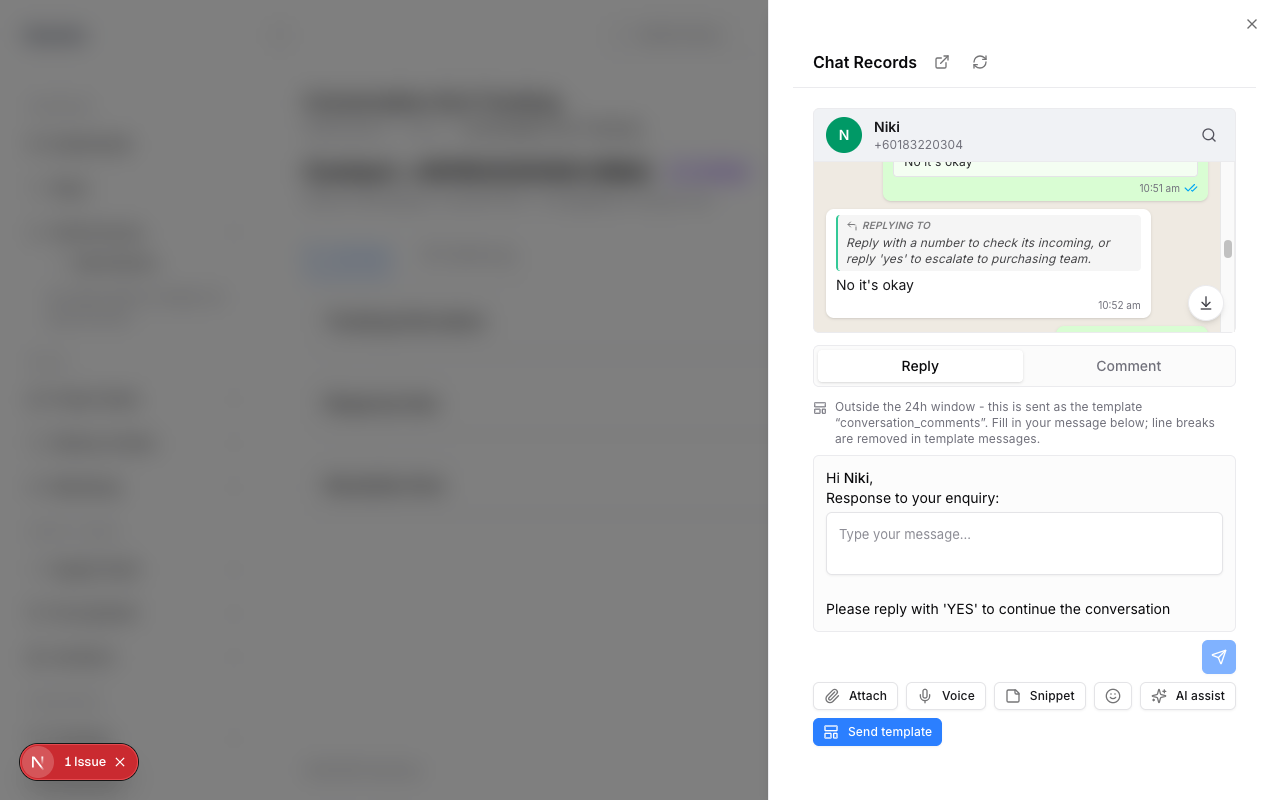
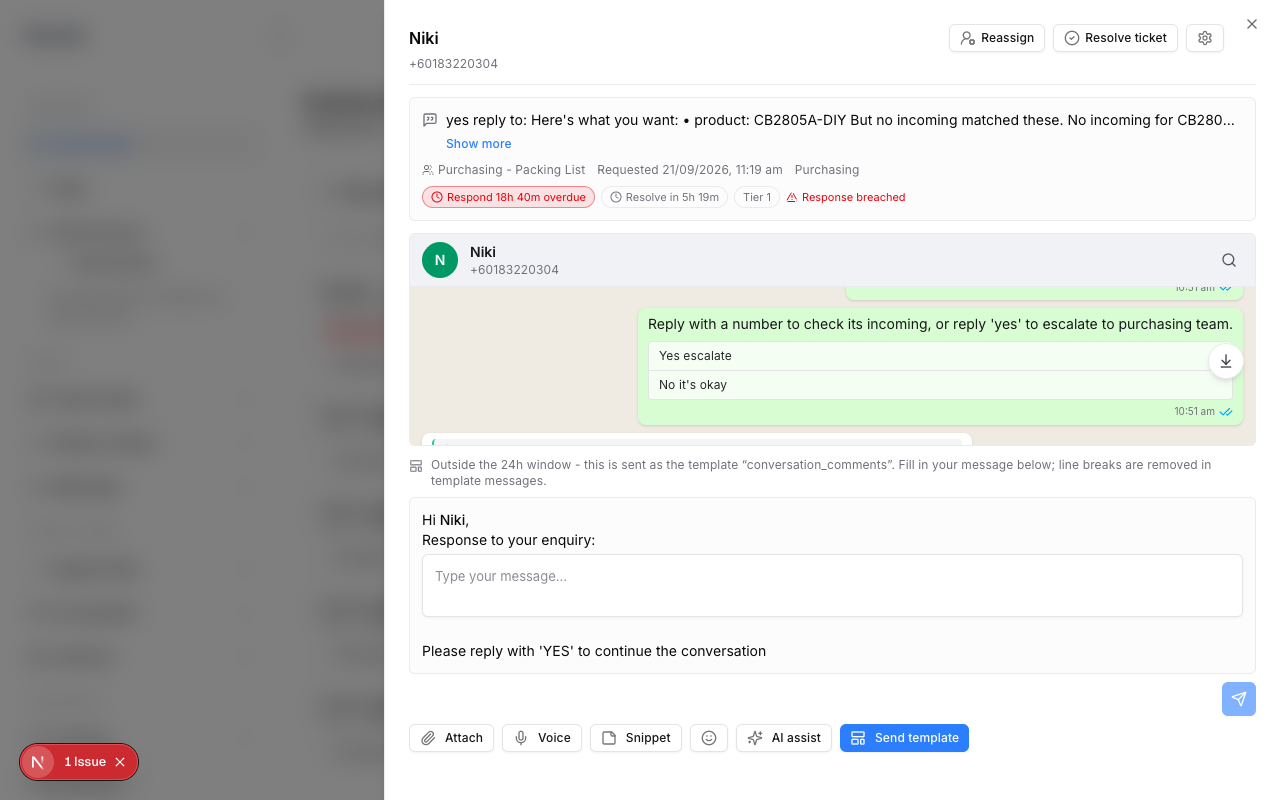
fix(sla): fix round 4 - sheet content stops double-scrolling, composer never shrinks (375px overlap defect)
AC-CP-B3 PASSED on 803f910e3 (evidence PNG re-committed here). New defect from
the SAME run at 375x812, ticket ac2e3912, reproduced twice: the message
thread's text rendered on top of the composer's "Outside the 24h window..."
text, at the same y. DOM probe: the thread's own scroll box (min-h-40 floor)
measured scrollHeight 12793 / clientHeight 158 - correctly clipped and
scrolling its own content, not the defect itself.

Diagnosed against origin/main first: SheetContent's explicit overflow-y-auto
and SheetBody's own (from sheet.tsx's base class) are BOTH unchanged since
main - the double-scroll-container structure is pre-existing, not introduced
by this lane. Neither the one-line quote (frees space) nor this lane's R2/R3
flex-fill wiring explains the overlap alone, and the composer/mode-switch bar
have never carried a shrink floor, on main or here.

Fixed at the smallest seam, in files this lane already owns:
- InterventionTicketDrawer.tsx and ConversationSLATrackingDetail.tsx's Chat
  Records Sheet: SheetContent's className overflow-y-auto -> overflow-hidden.
  SheetBody is the ONE intended scroll container (its own docstring says so);
  SheetContent sits at a fixed h-full and never needs its own scroll - leaving
  it independently scrollable gave the layout two competing scroll contexts
  around the same flex-fill thread.
- TicketConversationPanel.tsx (shared by both surfaces): the Reply/Comment
  mode-switch bar gets shrink-0 directly; InternalCommentComposer and
[…]

diff --git a/sorento_crm_frontend/app/(protected)/sla-management/conversation-sla-tracking/components/TicketConversationPanel.tsx b/sorento_crm_frontend/app/(protected)/sla-management/conversation-sla-tracking/components/TicketConversationPanel.tsx
@@ -267,12 +267,16 @@ export default function TicketConversationPanel({
         </>
       )}
 
-      {/* ---- Mode switch: message the contact, or note to the team ---- */}
+      {/* ---- Mode switch: message the contact, or note to the team ----
+          `shrink-0` (fix round 4): a flex COLUMN child can still be
+          squeezed by the flex algorithm when the thread above it is
+          fighting for space at its `min-h-40` floor - this bar (and the
+          composer below) must never lose height to that fight. */}
       {ticket && (
         <div
           role="tablist"
           aria-label="Composer mode"
-          className="flex w-full gap-1 rounded-md border bg-muted/40 p-1"
+          className="flex w-full shrink-0 gap-1 rounded-md border bg-muted/40 p-1"
         >
           {(['reply', 'comment'] as const).map((mode) => (
             <button
@@ -297,62 +301,70 @@ export default function TicketConversationPanel({
         </div>
       )}
 
+      {/* `shrink-0` wrapper (fix round 4): neither composer variant accepts a
+          className of its own, and a bare flex-column child can still be
+          squeezed by the algorithm - this must always render at its full
+          natural height, never fight the thread above it for space. */}
       {ticket && composerMode === 'comment' && (
-        <InternalCommentComposer
-          disabled={isResolved}
-          disabledMessage="This ticket is resolved."
-          onSubmit={({ body, mentionedUserIds }) =>
-            commentMutation.mutateAsync({
-              body,
-              mentioned_user_ids: mentionedUserIds,
-            })
-          }
-        />
+        <div className="shrink-0">
+          <InternalCommentComposer
+            disabled={isResolved}
+            disabledMessage="This ticket is resolved."
+            onSubmit={({ body, mentionedUserIds }) =>
+              commentMutation.mutateAsync({
+                body,
+                mentioned_user_ids: mentionedUserIds,
+              })
+            }
+          />
+        </div>
       )}
 
       {/* Held back while the ticket is still loading: its window state and send
           capabilities decide what the composer even offers, and a flash of
           "replying is not available" is a lie the next render corrects. */}
       {composerMode === 'reply' && !ticketQuery.isLoading && (
-        <SharedConversationComposer
-          entityType="conversation_sla"
-          entityId={ticket?.id ?? ticketId ?? ''}
-          canReply={canReply}
-          mode="conversation"
-          attachmentsEnabled={!!ticket?.send_capabilities.includes('attachment')}
-          // A manual template send is a reply too: stamp THIS ticket, or the
-          // response clock runs on while the contact has an answer.
-          templateSendTrackingId={ticket?.id ?? null}
-          // Composer parity with Respond's own inbox (UAC AC-L4 / AC-L5).
-          // Snippet variables resolve against THIS ticket, and the AI draft is
-          // grounded on THIS thread - both server-side, so the panel only has
-          // to say which ticket it is.
-          snippetsEnabled={!!ticket}
-          snippetTrackingId={ticket?.id ?? null}
-          emojiEnabled={!!ticket}
-          onAiAssist={
-            ticket
-              ? async ({ instruction }) => {
-                  const result = await aiDraftMutation.mutateAsync({ instruction });
-                  return result.draft;
-                }
-              : undefined
-          }
-          onSent={handleSent}
-          // Optimistic send (M6-01): the bubble goes up before the request
-          // completes and comes down once `handleSent`'s thread refetch lands.
-          pendingBubble={{ add: thread.addPending, remove: thread.removePending }}
-          windowStateOverride={
-            ticket ? { closed: !ticket.window.open, template: ticket.chat_template } : null
-          }
-          sendAdapter={
-            ticket
-              ? (payload) =>
-                  sendMutation.mutateAsync({ text: payload.text, attachments: payload.files })
-              : undefined
-          }
-          notAvailableMessage={notAvailableMessage}
-        />
+        <div className="shrink-0">
+          <SharedConversationComposer
+            entityType="conversation_sla"
+            entityId={ticket?.id ?? ticketId ?? ''}
+            canReply={canReply}
+            mode="conversation"
+            attachmentsEnabled={!!ticket?.send_capabilities.includes('attachment')}
+            // A manual template send is a reply too: stamp THIS ticket, or the
+            // response clock runs on while the contact has an answer.
+            templateSendTrackingId={ticket?.id ?? null}
+            // Composer parity with Respond's own inbox (UAC AC-L4 / AC-L5).
+            // Snippet variables resolve against THIS ticket, and the AI draft is
+            // grounded on THIS thread - both server-side, so the panel only has
+            // to say which ticket it is.
+            snippetsEnabled={!!ticket}
+            snippetTrackingId={ticket?.id ?? null}
+            emojiEnabled={!!ticket}
+            onAiAssist={
+              ticket
+                ? async ({ instruction }) => {
+                    const result = await aiDraftMutation.mutateAsync({ instruction });
+                    return result.draft;
+                  }
+                : undefined
+            }
+            onSent={handleSent}
+            // Optimistic send (M6-01): the bubble goes up before the request
+            // completes and comes down once `handleSent`'s thread refetch lands.
+            pendingBubble={{ add: thread.addPending, remove: thread.removePending }}
+            windowStateOverride={
+              ticket ? { closed: !ticket.window.open, template: ticket.chat_template } : null
+            }
+            sendAdapter={
+              ticket
+                ? (payload) =>
+                    sendMutation.mutateAsync({ text: payload.text, attachments: payload.files })
+                : undefined
+            }
+            notAvailableMessage={notAvailableMessage}
+          />
+        </div>
       )}
     </div>
   );

diff --git a/sorento_crm_frontend/app/(protected)/sla-management/conversation-sla-tracking/components/InterventionTicketDrawer.test.tsx b/sorento_crm_frontend/app/(protected)/sla-management/conversation-sla-tracking/components/InterventionTicketDrawer.test.tsx
@@ -1215,3 +1215,43 @@ describe('InterventionTicketDrawer My Team (not the assignee)', () => {
     expect(screen.queryByTestId('ticket-takeover')).not.toBeInTheDocument();
   });
 });
+
+/**
+ * Fix round 4: at 375x812, a real ticket (long thread + the composer's
+ * "Outside the 24h window..." template notice) rendered the thread's text on
+ * TOP of the composer's, at the same y - a real defect, reproduced twice.
+ * DOM probe found the thread's own scroll box correctly clipped to its
+ * `min-h-40` floor (clientHeight 158, scrollHeight 12793) - so the box ITSELF
+ * was fine; the structural risk is `SheetContent` ALSO being independently
+ * scrollable (its own `overflow-y-auto`, on top of `SheetBody`'s) and the
+ * composer having no `shrink-0` floor of its own, so a squeeze anywhere in
+ * that chain has nowhere safe to land. jsdom cannot measure real layout, so
+ * these pin the STRUCTURE the fix relies on, not the pixels.
+ */
+describe('InterventionTicketDrawer sheet layout (fix round 4, 375px overlap)', () => {
+  it('the sheet content itself does not scroll - only SheetBody does, so there is exactly one scroll container between it and the thread', async () => {
+    useInterventionTicket.mockReturnValue(mockQuery(makeTicket()));
+    renderDrawer();
+    await screen.findByTestId('chat-list');
+
+    const sheetContent = document.querySelector('[data-slot="sheet-content"]');
+    expect(sheetContent).toBeTruthy();
+    expect(sheetContent?.className).not.toContain('overflow-y-auto');
+  });
+
+  it('the composer never shrinks below its natural height, however tight the thread gets', async () => {
+    useInterventionTicket.mockReturnValue(mockQuery(makeTicket()));
+    renderDrawer();
+
+    const send = await screen.findByTestId('composer-send');
+    expect(send.closest('.shrink-0')).toBeTruthy();
+  });
+
+  it('the Reply/Comment mode switch never shrinks either', async () => {
+    useInterventionTicket.mockReturnValue(mockQuery(makeTicket()));
+    renderDrawer();
+
+    const tab = await screen.findByTestId('composer-mode-reply');
+    expect(tab.closest('[role="tablist"]')?.className).toContain('shrink-0');
+  });
+});

diff --git a/sorento_crm_frontend/app/(protected)/sla-management/conversation-sla-tracking/components/InterventionTicketDrawer.tsx b/sorento_crm_frontend/app/(protected)/sla-management/conversation-sla-tracking/components/InterventionTicketDrawer.tsx
@@ -222,7 +222,13 @@ export default function InterventionTicketDrawer({
     <Sheet open={open} onOpenChange={onOpenChange}>
       <SheetContent
         side="right"
-        className="flex w-full flex-col gap-3 overflow-y-auto p-4 sm:max-w-2xl sm:p-6 lg:max-w-4xl"
+        // Fix round 4: `overflow-hidden`, not `-y-auto` (the base primitive's
+        // default) - `SheetBody` below is the ONE scroll container (it has
+        // its own `overflow-y-auto`, on purpose). Two independently
+        // scrollable ancestors around the same flex-fill thread fought each
+        // other at 375x812 and the thread's text rendered on top of the
+        // composer's (AC-CP-B1 375 overlap defect).
+        className="flex w-full flex-col gap-3 overflow-hidden p-4 sm:max-w-2xl sm:p-6 lg:max-w-4xl"
       >
         <SheetHeader className="border-b pb-3 pe-8">
           <div className="flex flex-wrap items-center gap-2">

diff --git a/sorento_crm_frontend/app/(protected)/sla-management/conversation-sla-tracking/components/ConversationSLATrackingDetail.tsx b/sorento_crm_frontend/app/(protected)/sla-management/conversation-sla-tracking/components/ConversationSLATrackingDetail.tsx
@@ -1066,7 +1066,12 @@ export default function ConversationSLATrackingDetail({
 
       {respondInboxUrl && (
         <Sheet open={conversationSheetOpen} onOpenChange={setConversationSheetOpen}>
-          <SheetContent side="right" className="flex w-full flex-col overflow-y-auto sm:max-w-lg">
+          {/* Fix round 4: `overflow-hidden`, not `-y-auto` - `SheetBody`
+              below is the ONE scroll container. Same shape as the ticket
+              drawer's Sheet (InterventionTicketDrawer.tsx), same fix -
+              see its comment for why two scrollable ancestors around a
+              flex-fill thread is the defect. */}
+          <SheetContent side="right" className="flex w-full flex-col overflow-hidden sm:max-w-lg">
             <SheetHeader className="sr-only">
               <SheetTitle>Chat Records</SheetTitle>
             </SheetHeader>

diff --git a/documentation/plans/sla/PLAN-chat-panel-layout-22sep.md b/documentation/plans/sla/PLAN-chat-panel-layout-22sep.md
@@ -1,6 +1,6 @@
 # PLAN: ticket chat panel - one-line enquiry quote, thread fills the sheet, reply-to jump fetches back
 
-Status: review READY, fix round 3 (replyTo.id) pushed, browser B3 re-verify owed (lane `fix/sla-chat-panel-layout`, worktree `sorento_crm-chat-panel-layout`)
+Status: review READY, browser B3 PASS, 375 overlap fix pushed, re-verify owed (lane `fix/sla-chat-panel-layout`, worktree `sorento_crm-chat-panel-layout`)
 UAC: `chat-panel-layout-22sep-acceptance-criteria.md`
 Owner rulings (22 Sep 2026): R2 enquiry quote is one line, chat window takes the most space; R3 Chat Records popup thread flex-fills; R4 reply-to jump reuses the search-jump fetch.
 
@@ -29,6 +29,18 @@ Staff opens a ticket (worklist drawer or SLA detail "Chat Records"). Today a lon
 ## Fix round 3 (browser pass FAIL on AC-CP-B3, real defect)
 
 `lib/respondIoChatRender.ts:53-57` typed `replyTo.messageId` and `describeQuotedContext` (`:331`) read `reply.messageId` - but the LIVE Respond.io relay's `replyTo` carries the quoted message's id as `id`, never `messageId` (verified in the browser: `"replyTo": {"id": 1788922281019104, "message": {...}, "mId": "...", "sender": {...}}`, no `messageId` key at all). Every quote in production rendered as an inert div, including one whose target was in the loaded window. Every test fixture used `messageId`, which is why the suite stayed green. Fixed by reading `reply.id ?? reply.messageId` (the `??` keeps the local `chat_histories` mirror's reconstructed shape working - `conversation_thread_service.py`'s `_row_to_item` still writes `messageId`). Confirmed `conversation_thread_service.py`'s `_respond_item()` passes Respond's raw `replyTo` through untouched for the live "respond" lane - no backend rename, the fix is frontend-only. Note: `persist_messages` in the same backend file (line ~560) reads `reply_to.get("messageId")` too, for the LOCAL search-cache write path - same wrong key, a separate function, flagged but out of this round's scope.
+
+## Fix round 4 (AC-CP-B3 PASS; new 375px overlap defect on the SAME run)
+
+At 375x812, ticket ac2e3912 (Niki) opened via `/?ticket=<id>`, reproduced twice on a fresh load: the message thread's text rendered on top of the composer's "Outside the 24h window - this is sent as the template..." text, at the same y. DOM probe: one `.overflow-y-auto` measured `scrollHeight 12793`, `clientHeight 158` - the thread's own scroll box (`min-h-40` floor, `RespondChatList.tsx:875`) is correctly clipping and scrolling its OWN content; that box is not the defect.
+
+Diagnosed against `origin/main` first: `SheetContent`'s className (`overflow-y-auto`, explicit at the call site) and `SheetBody`'s (also `overflow-y-auto`, from `sheet.tsx`'s own base class) are BOTH unchanged since main - the double-scroll-container structure (reviewer's S3 candidate) is pre-existing, not introduced by this lane. What IS new in this lane is the enquiry quote now being one line (freeing space) and the flex-fill wiring this PLAN's own R2/R3 fixes rely on - neither explains the overlap on its own, and the composer/tablist have never carried `shrink-0`, on main or here.
+
+Fixed at the smallest seam, in the two files this lane already owns:
+1. `InterventionTicketDrawer.tsx` and `ConversationSLATrackingDetail.tsx`'s Chat Records `Sheet`: `SheetContent`'s className changed from `overflow-y-auto` to `overflow-hidden` - `SheetBody` is the ONE intended scroll container (its own docstring says so), and `SheetContent` sits at a fixed `h-full`, so it never needs to scroll on its own; letting it stay independently scrollable gave the layout two competing scroll contexts around the same flex-fill thread.
+2. `TicketConversationPanel.tsx` (shared by both surfaces): the Reply/Comment mode-switch bar gets `shrink-0` directly; `InternalCommentComposer` and `SharedConversationComposer` (neither accepts a `className`) are each wrapped in a `<div className="shrink-0">` - neither carried a shrink floor before, on main or here, so a squeeze anywhere upstream had nowhere safe to land.
+
+Vitest cannot measure real layout (jsdom's `scrollWidth`/`clientHeight` are always 0), so the new tests pin the STRUCTURE: `SheetContent`'s rendered className never contains `overflow-y-auto`, and the composer / mode-switch DOM carries a `.shrink-0` ancestor. Confirmed red before the fix, green after.
 
 ## Browser verification
 
